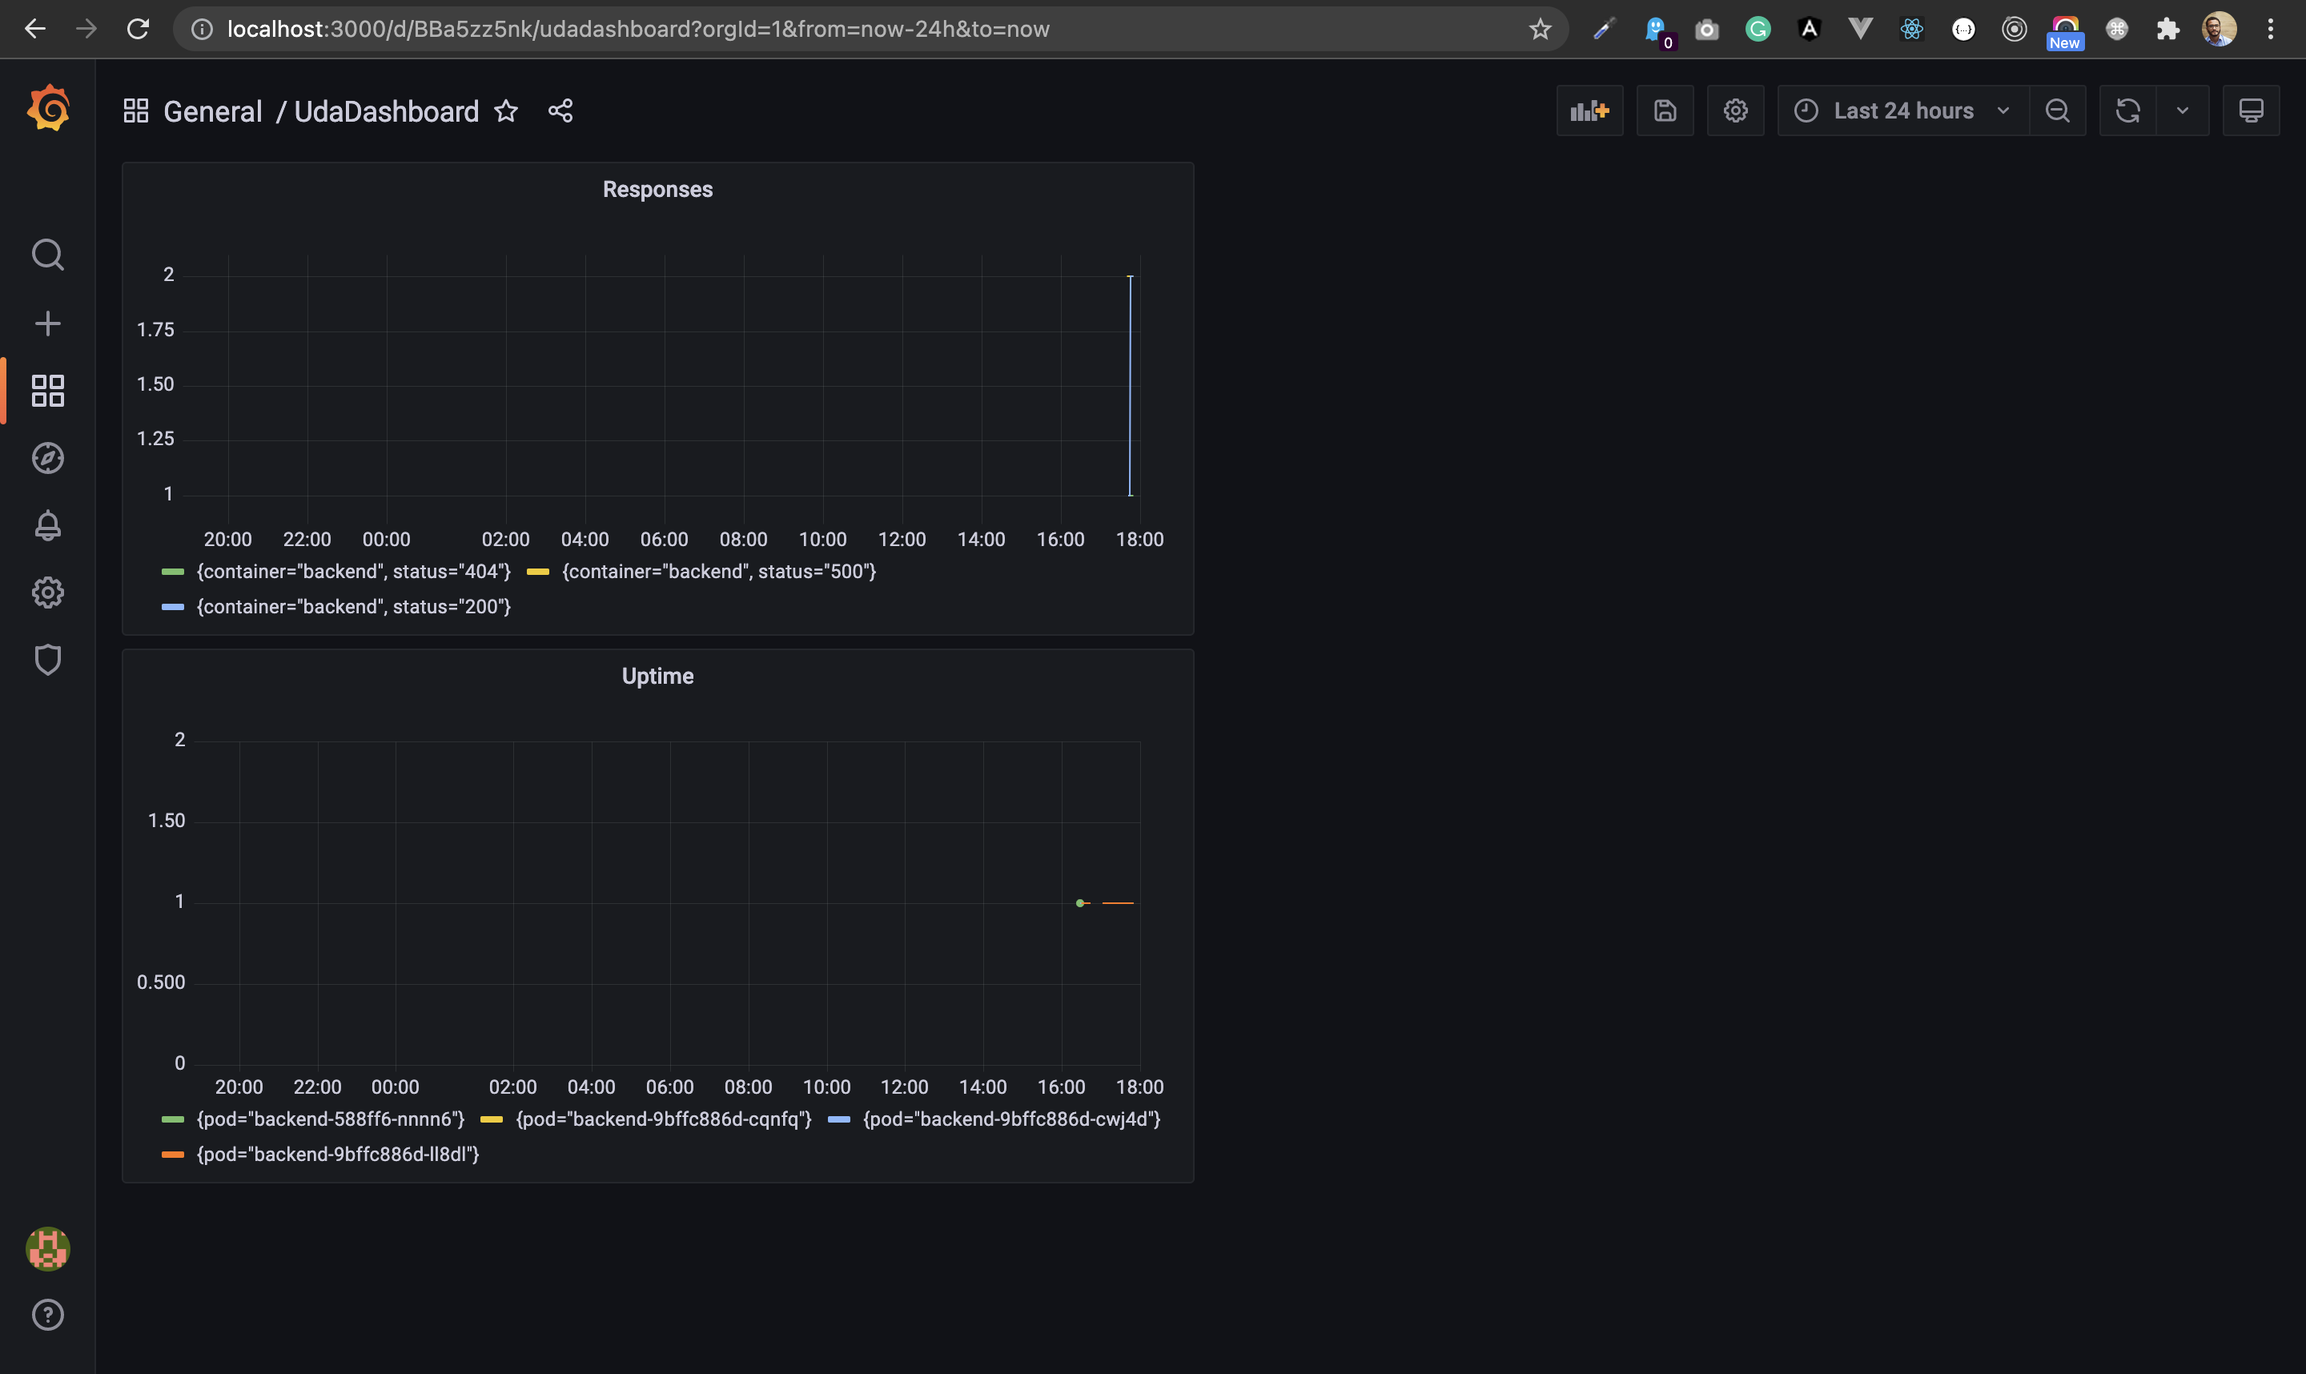
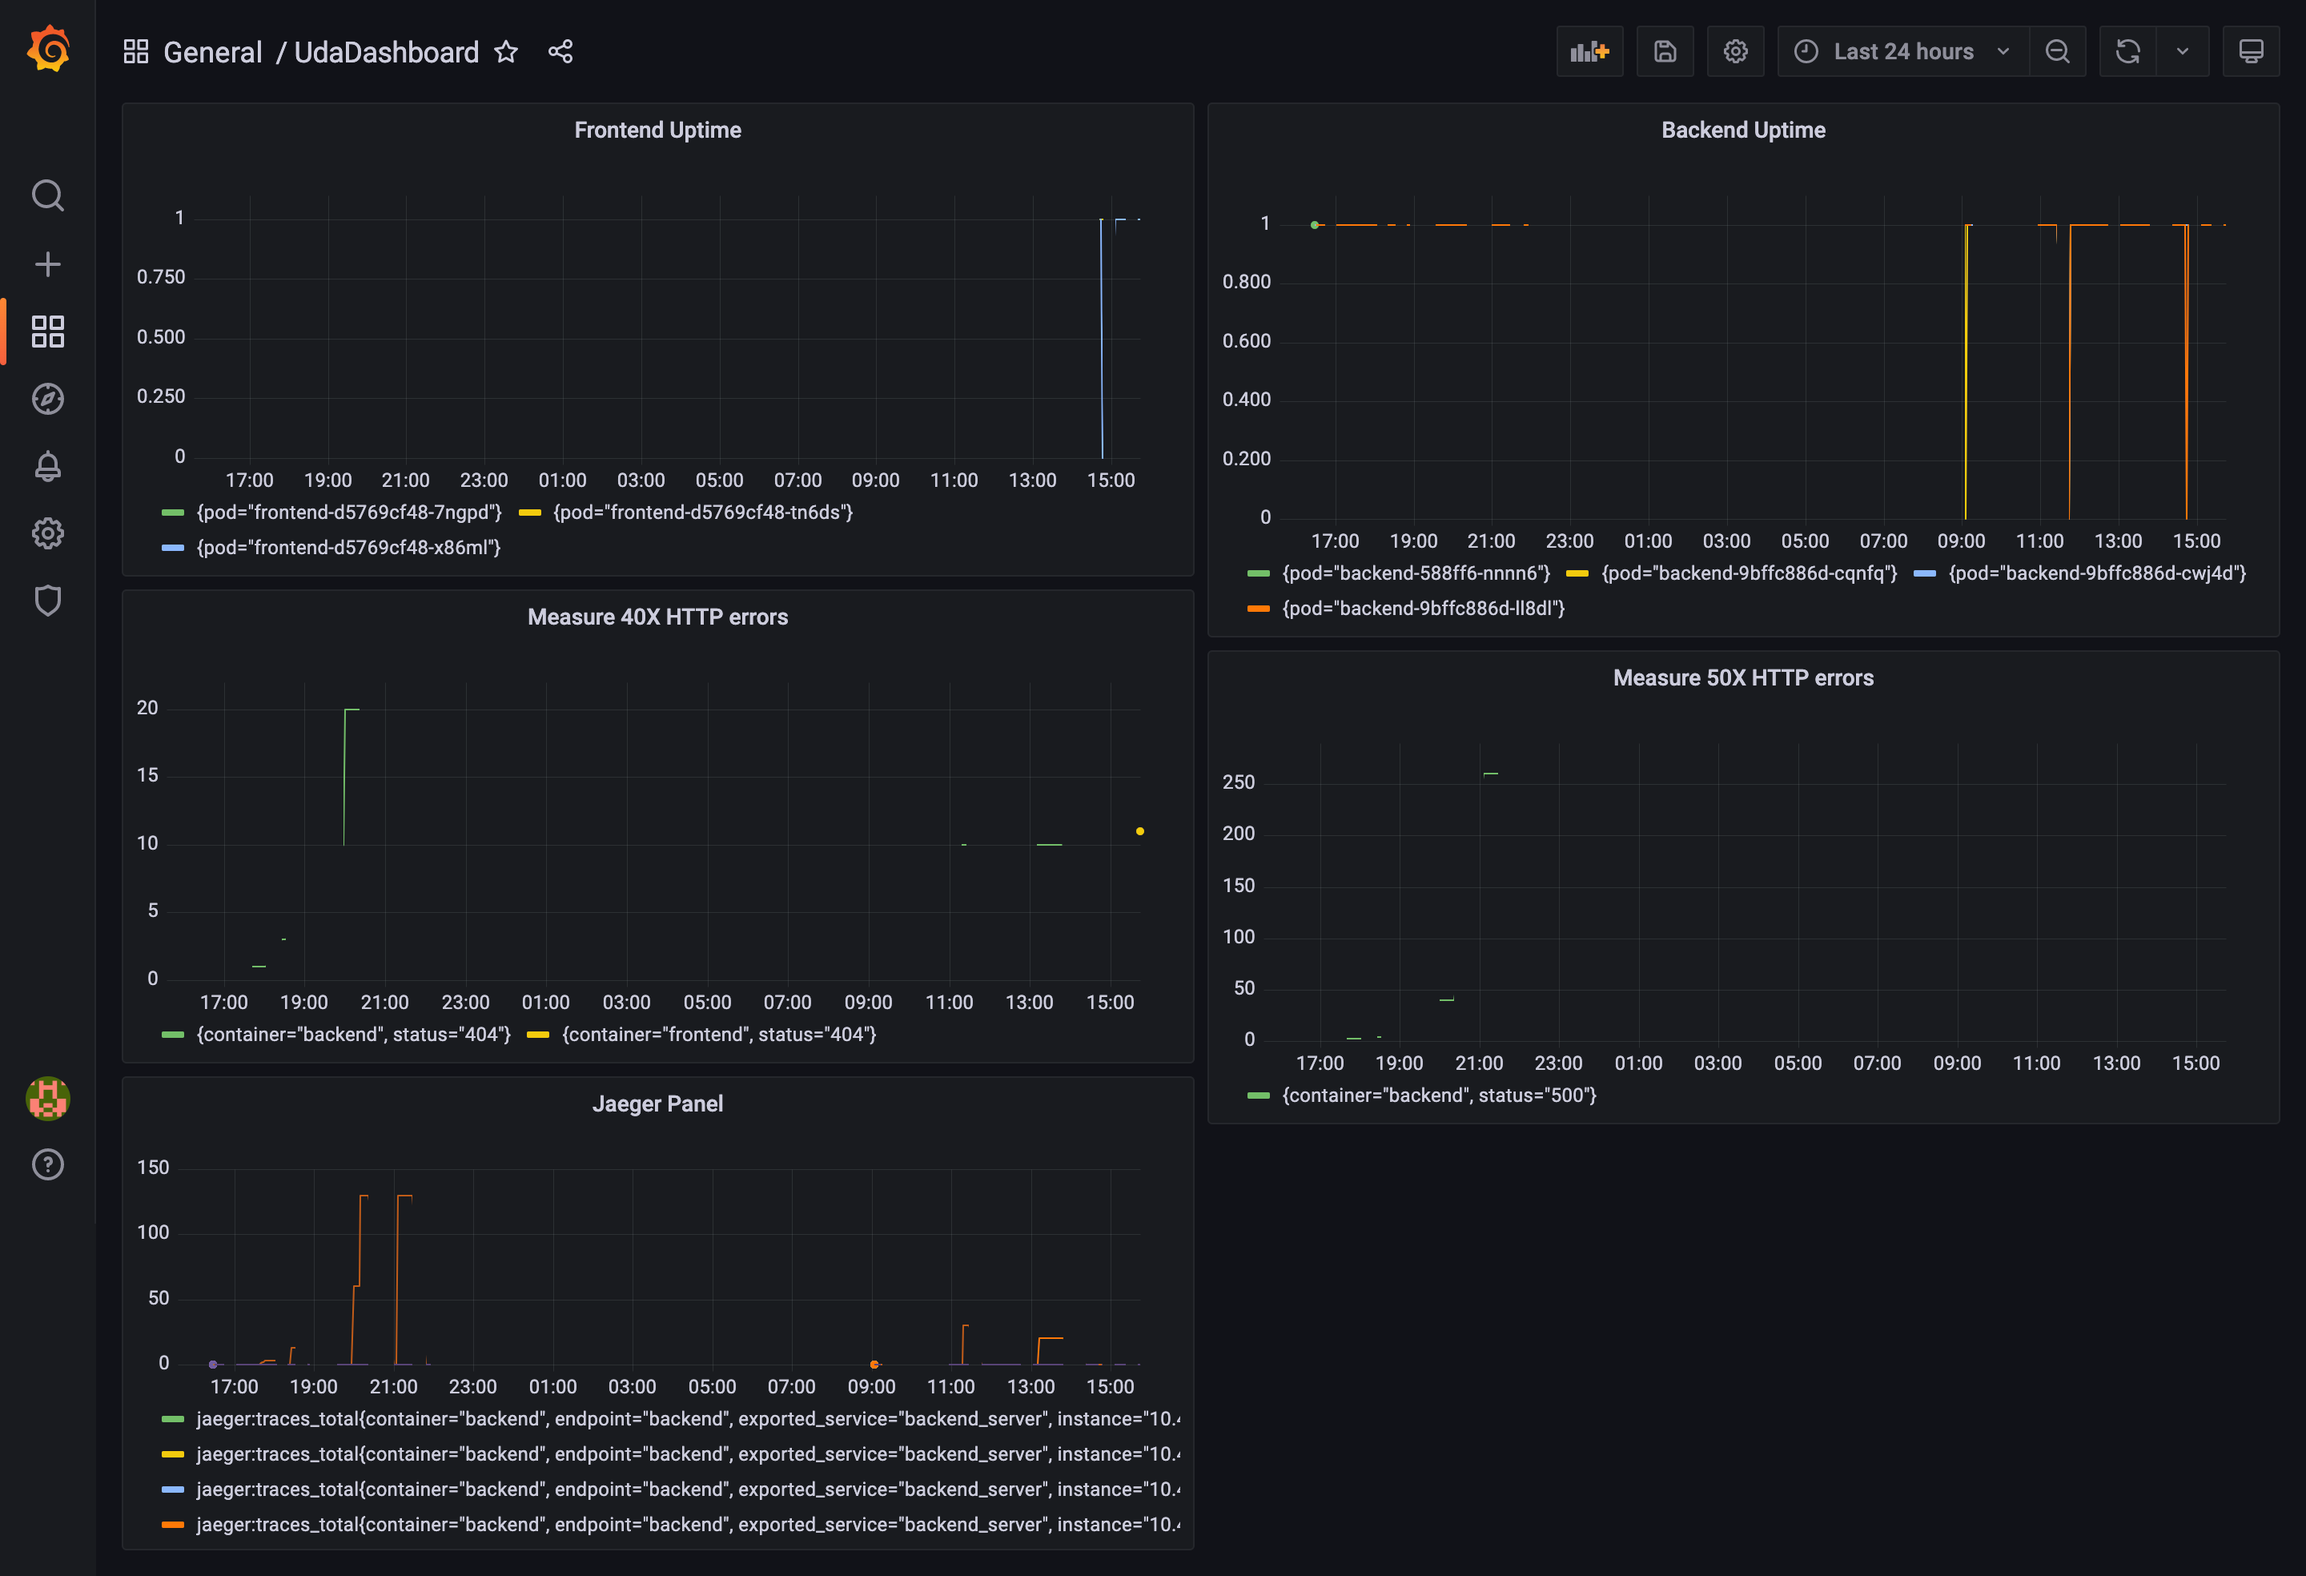
fixed

diff --git a/README.md b/README.md
@@ -40,6 +40,8 @@
 
 ![sli_slo_dashboard_screeshot](answer-img/sli_slo_dashboard_screeshot.png)
 
+![sli_slo_dashboard_screeshot_02](answer-img/sli_slo_dashboard_screeshot_02.png)
+
 
 ## Tracing our Flask App
 *TODO:*  We will create a Jaeger span to measure the processes on the backend. Once you fill in the span, provide a screenshot of it here.
@@ -74,16 +76,20 @@ Description: went running backend service route "/star" get a error and the serv
 ## Creating SLIs and SLOs
 *TODO:* We want to create an SLO guaranteeing that our application has a 99.95% uptime per month. Name three SLIs that you would use to measure the success of this SLO.
 
-- Application service uptime 
+- Applications service uptime 
 - CPU and memory usage 
 - Request and Response time 
+- Http Errors (4xx or 5xx error)
 
 ## Building KPIs for our plan
 *TODO*: Now that we have our SLIs and SLOs, create KPIs to accurately measure these metrics. We will make a dashboard for this, but first write them down here.
 
-- Uptime:  need to be al lest 99% service up and running
-- Error Rate: will be less than 95%
-- CPU and Memory usage: need to watch overload procesing 
+- Backend and Frontend Uptime
+    - Mesure the availability of services Uptime to make sure it is accessible for the client
+- Error Rate mesure (4xx or 5xx error):
+    - Measure the number of failed (non HTTP 200) responses per second
+- CPU and Memory usage    
+    - Server CPU and memory usage, keep on low to prevent loss availability of services.
 
 ## Final Dashboard
 *TODO*: Create a Dashboard containing graphs that capture all the metrics of your KPIs and adequately representing your SLIs and SLOs. Include a screenshot of the dashboard here, and write a text description of what graphs are represented in the dashboard.  
